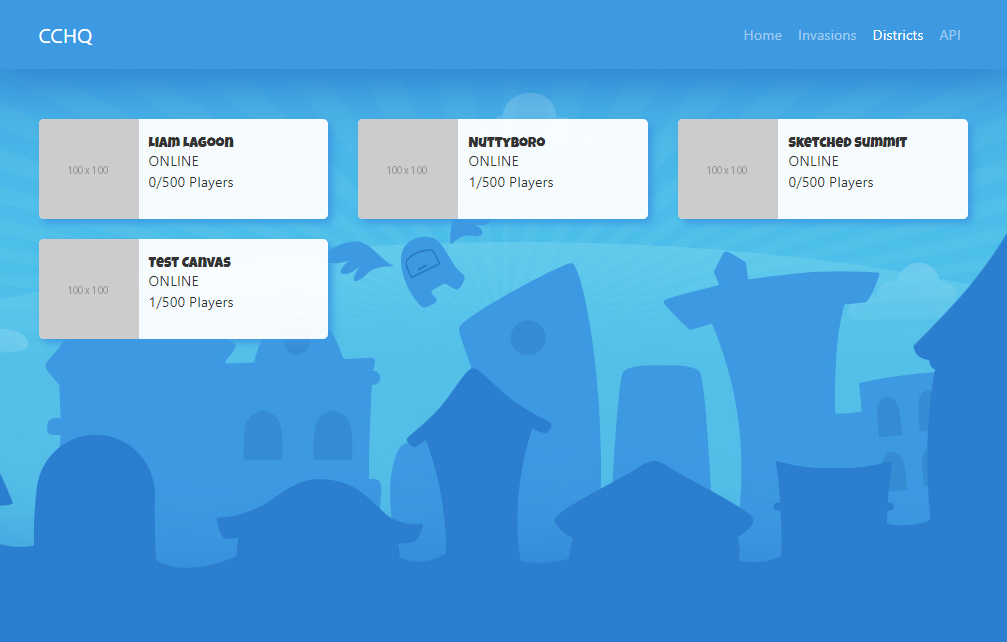
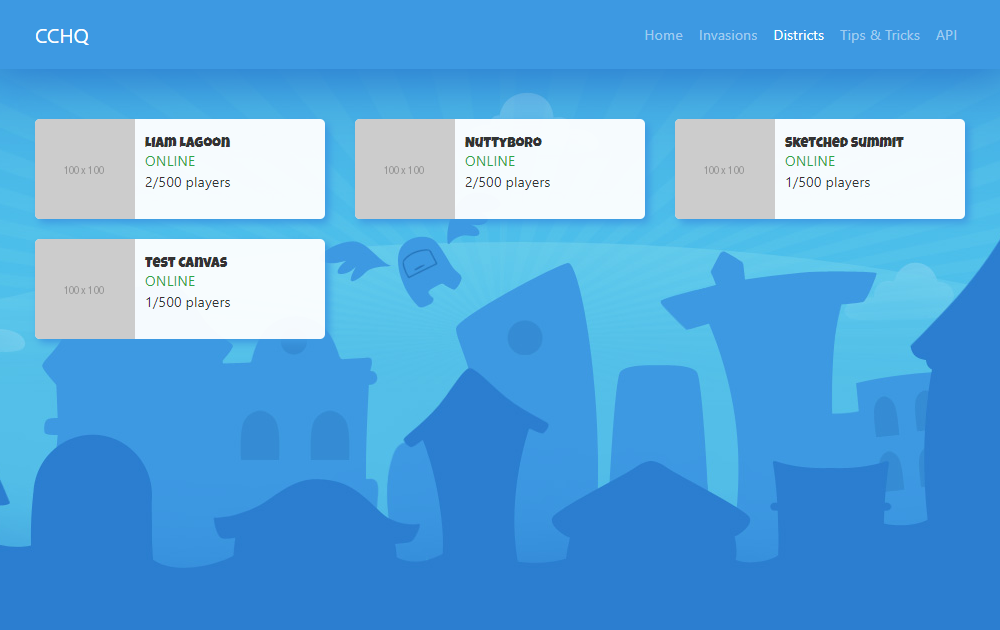
Added tips and tricks

diff --git a/assets/styles/global.css b/assets/styles/global.css
@@ -79,3 +79,34 @@ nav.navbar{
 .homepage img{
   max-width: 100%;
 }
+.tip-card{
+  background-color: rgba(247, 247, 247, 0.85);
+  margin-top: 20px;
+  padding: 15px 0 0 0;
+  text-align: center;
+  border-radius: 5px;
+}
+.tip-card table {
+    width: 100%;
+    margin-top: 20px;
+}
+.tip-card table thead th {
+    text-align: center;
+    font-family: 'Luckiest Guy', sans-serif;
+    font-size: 1.1em;
+}
+.tip-card table tr td {
+    border: 2px solid rgb(206, 204, 201);
+    border-bottom: none;
+    text-align: center;
+    padding: 7px;
+}
+.tip-card table tr td:first-child {
+  border-left: none;
+}
+.tip-card table.cog-hp-values tr td:first-child{
+  font-weight: bold;
+}
+.tip-card table tr td:last-child {
+    border-right: none;
+}

diff --git a/config/routes.js b/config/routes.js
@@ -33,6 +33,9 @@ module.exports.routes = {
   '/invasions': {
     view: 'pages/invasions'
   },
+  '/tips-tricks': {
+    view: 'pages/tips-tricks'
+  },
 
   /***************************************************************************
   *                                                                          *
